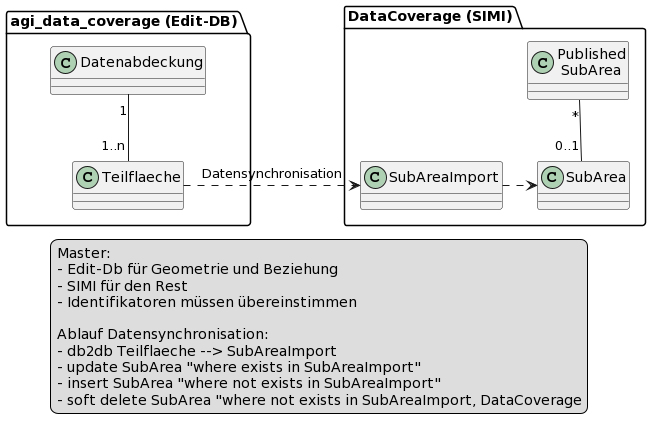
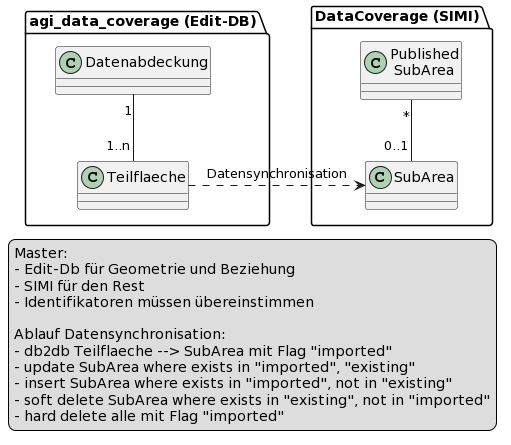
upd modeldoc

Changed region(s): [[0.0, 0.0, 0.998, 0.972]]

diff --git a/modeldoc/theme_datacoverage.md b/modeldoc/theme_datacoverage.md
@@ -179,23 +179,7 @@ Unterorganisation innerhalb eines Amts. Der Einfachheit halber wird nur eine Hie
 
 UK auf name und FK zum Amt (Wird nur bei kleinem Aufwand umgesetzt)
 
-## Klasse DataCoverage
-
-Datenabdeckungs-Ebene für 1-n Themen. Aus der Ebene gehen zwei Informationen hervor:
-* Gibt es Gebiete im Kanton ohne Daten (Datenlücken)?
-* Sind die Daten für den Bezug im mehrere Stücke aufgeteilt? Und wenn ja: In welche Teilflächen (Polygone)?
-
-### Attributbeschreibung
-
-|Name|Typ|Z|Beschreibung|
-|---|---|---|---|
-|identifier|String(100)|j|Eindeutige Kennung der Datenabdeckungs-Ebene|
-
-### Konstraints
-
-UK auf identifier
-
-## Klasse PublishedArea
+## Klasse PublishedSubArea
 
 Mit dem "LastPublished date" wird in dieser Klasse gespeichert, wann ein Teilgebiet einer Themenpublikation das letzte mal publiziert wurde. LastPublished wird für Vektordaten via GRETL-Publisher geschrieben.
 
@@ -230,7 +214,7 @@ Wird mittels GRETL-Job aus dem Schema "agi_data_coverage" (Modell SO_AGI_Meta_Da
 
 UK über identifier, coverageIdent
 
-# Ablauf der Datensynchronisation
+# TODO: Update - Ablauf der Datensynchronisation
 
 ## db2db Teilflaeche --> SubAreaImport
 
